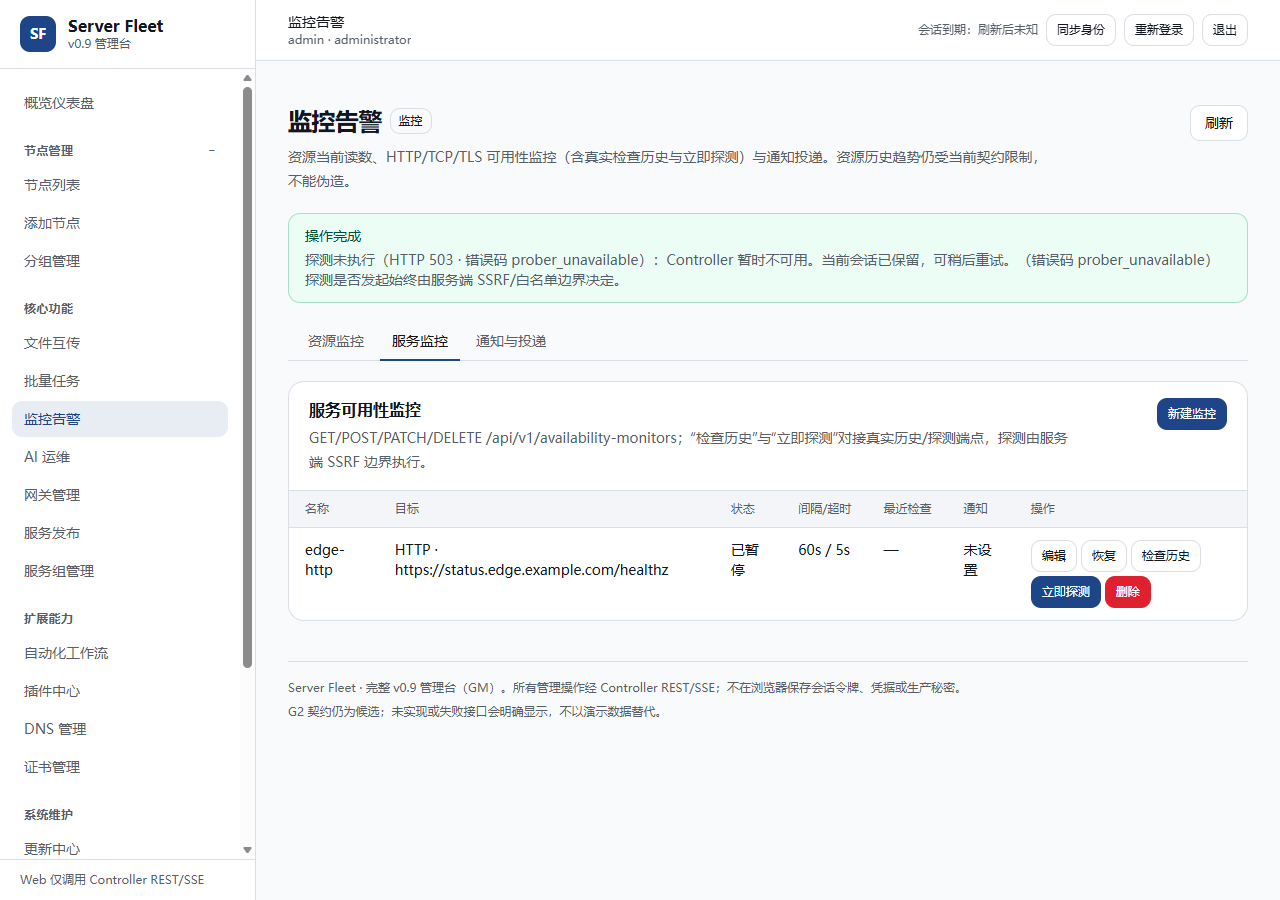
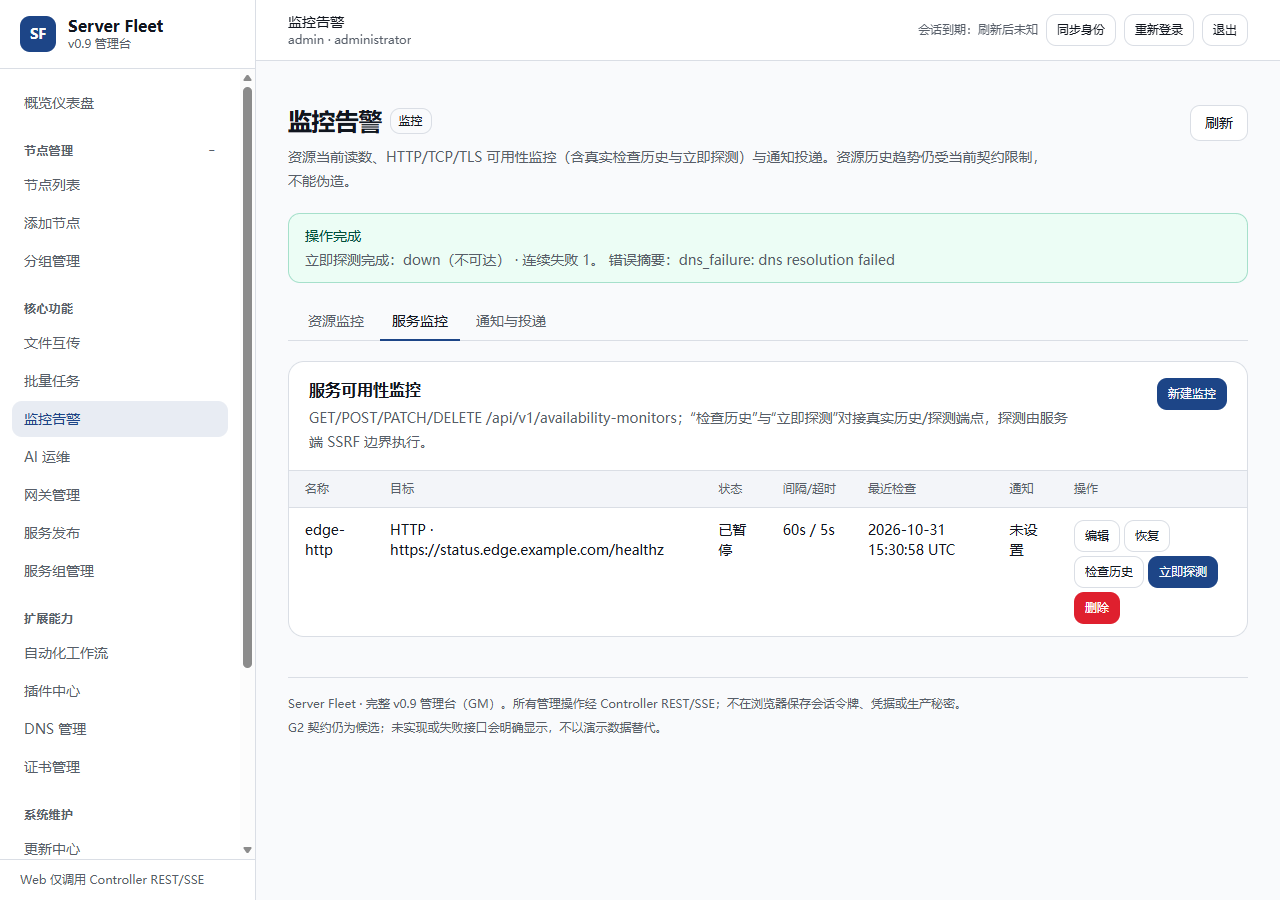
feat(controller): wire default NetProber and LocalStagingTransport for wave 5 composition

Changed region(s): [[0.2188, 0.28, 0.9688, 0.6533], [0.2188, 0.7467, 0.75, 0.84], [0.5625, 0.5289, 0.9688, 0.7156]]

diff --git a/tests/integration/v09/controller_wave2_test.go b/tests/integration/v09/controller_wave2_test.go
@@ -3,6 +3,8 @@ package v09_test
 import (
 	"bytes"
 	"context"
+	"crypto/sha256"
+	"encoding/hex"
 	"encoding/json"
 	"io"
 	"net/http"
@@ -219,6 +221,9 @@ func TestWave2ControllerEndToEndHTTPSComposition(t *testing.T) {
 			"servicegroups.write",
 			"tasks.submit",
 			"tasks.read",
+			"tasks.command",
+			"files.read",
+			"files.write",
 			"monitoring.read",
 			"monitoring.write",
 			"quota.read",
@@ -227,6 +232,8 @@ func TestWave2ControllerEndToEndHTTPSComposition(t *testing.T) {
 			"publishing.read",
 			"publishing.write",
 			"publishing.plan_create",
+			"workflows.read",
+			"workflows.write",
 		},
 	}, adminLogin.CSRF, "wave2-grant-admin-0001")
 	if resp.StatusCode != http.StatusOK {
@@ -522,7 +529,92 @@ func TestWave2ControllerEndToEndHTTPSComposition(t *testing.T) {
 		t.Fatalf("list publications = %d: %s", resp.StatusCode, data)
 	}
 
-	// 6. Verify durable audit query over HTTPS
+	// 6. Verify Wave 5 composed defaults: NetProber, LocalStagingTransport, and Workflows
+	if composed.FilesTransport == nil {
+		t.Fatal("expected default FilesTransport (LocalStagingTransport) to be wired on composed Server")
+	}
+	uploadContent := []byte("wave5-composed-local-staging-payload")
+	uploadDigest := sha256.Sum256(uploadContent)
+	resp, data = doReq(adminClient, "POST", "/api/v1/nodes/node-tokyo/files/uploads", map[string]any{
+		"destinationDir": "/srv/app",
+		"conflictPolicy": "overwrite",
+		"files": []map[string]any{
+			{
+				"name":      "release.txt",
+				"sizeBytes": len(uploadContent),
+				"sha256":    hex.EncodeToString(uploadDigest[:]),
+			},
+		},
+	}, adminLogin.CSRF, "wave5-upload-create-0001")
+	if resp.StatusCode != http.StatusCreated {
+		t.Fatalf("create upload = %d: %s", resp.StatusCode, data)
+	}
+	var createdUpload struct {
+		UploadID string `json:"uploadId"`
+	}
+	if err := json.Unmarshal(data, &createdUpload); err != nil || createdUpload.UploadID == "" {
+		t.Fatalf("decode upload: %v (%s)", err, data)
+	}
+	rawReq, err := http.NewRequest("PUT", origin+"/api/v1/nodes/node-tokyo/files/uploads/"+createdUpload.UploadID+"/content?offset=0", bytes.NewReader(uploadContent))
+	if err != nil {
+		t.Fatal(err)
+	}
+	rawReq.Header.Set("Origin", origin)
+	rawReq.Header.Set("X-Requested-With", "ServerFleetWeb")
+	rawReq.Header.Set("X-CSRF-Token", adminLogin.CSRF)
+	rawReq.Header.Set("Content-Type", "application/octet-stream")
+	rawResp, err := adminClient.Do(rawReq)
+	if err != nil {
+		t.Fatalf("PUT upload content: %v", err)
+	}
+	rawData, _ := io.ReadAll(rawResp.Body)
+	_ = rawResp.Body.Close()
+	if rawResp.StatusCode != http.StatusOK {
+		t.Fatalf("PUT upload content = %d: %s", rawResp.StatusCode, rawData)
+	}
+	resp, data = doReq(adminClient, "POST", "/api/v1/nodes/node-tokyo/files/uploads/"+createdUpload.UploadID+"/complete", map[string]any{}, adminLogin.CSRF, "wave5-upload-complete-0001")
+	if resp.StatusCode != http.StatusOK {
+		t.Fatalf("complete upload = %d: %s", resp.StatusCode, data)
+	}
+	var pulled bytes.Buffer
+	if n, err := composed.FilesTransport.PullFile(ctx, "node-tokyo", "/srv/app/release.txt", &pulled); err != nil || int(n) != len(uploadContent) || !bytes.Equal(pulled.Bytes(), uploadContent) {
+		t.Fatalf("PullFile = (%d, %v, %q), want %q", n, err, pulled.String(), string(uploadContent))
+	}
+
+	resp, data = doReq(adminClient, "POST", "/api/v1/monitoring/availability-monitors", map[string]any{
+		"name":            "wave5-http-monitor",
+		"type":            "http",
+		"target":          "https://status.edge.example.com/healthz",
+		"intervalSeconds": 60,
+		"timeoutSeconds":  2,
+	}, adminLogin.CSRF, "wave5-monitor-create-0001")
+	if resp.StatusCode != http.StatusCreated {
+		t.Fatalf("create monitor = %d: %s", resp.StatusCode, data)
+	}
+	var createdMon struct {
+		ID string `json:"id"`
+	}
+	if err := json.Unmarshal(data, &createdMon); err != nil || createdMon.ID == "" {
+		t.Fatalf("decode monitor: %v (%s)", err, data)
+	}
+	resp, data = doReq(adminClient, "POST", "/api/v1/monitoring/availability-monitors/"+createdMon.ID+"/probe", map[string]any{}, adminLogin.CSRF, "wave5-monitor-probe-0001")
+	if resp.StatusCode != http.StatusOK {
+		t.Fatalf("probe monitor = %d: %s", resp.StatusCode, data)
+	}
+	resp, data = doReq(adminClient, "GET", "/api/v1/monitoring/availability-monitors/"+createdMon.ID+"/history", nil, "", "")
+	if resp.StatusCode != http.StatusOK {
+		t.Fatalf("monitor history = %d: %s", resp.StatusCode, data)
+	}
+	var monHist struct {
+		Items []struct {
+			Status string `json:"status"`
+		} `json:"items"`
+	}
+	if err := json.Unmarshal(data, &monHist); err != nil || len(monHist.Items) != 1 {
+		t.Fatalf("expected 1 persisted monitor check sample, got %+v (%v) raw=%s", monHist, err, string(data))
+	}
+
+	// 7. Verify durable audit query over HTTPS
 	resp, data = doReq(adminClient, "GET", "/api/v1/audit/events?limit=50", nil, "", "")
 	if resp.StatusCode != http.StatusOK {
 		t.Fatalf("audit events = %d: %s", resp.StatusCode, data)

diff --git a/apps/controller/server/server.go b/apps/controller/server/server.go
@@ -90,6 +90,7 @@ type Server struct {
 	TasksRepo         *tasks.Repo
 	Tasks             *tasks.Service
 	Files             *files.Service
+	FilesTransport    *files.LocalStagingTransport
 	DNS               *dns.Service
 	Notifications     *notifications.Service
 	Gateway           *gateway.Service
@@ -611,6 +612,15 @@ func New(ctx context.Context, cfg Config) (*Server, error) {
 	}
 
 	taskBridge := &composedTaskBridge{tasks: tasksService}
+	uploads := cfg.UploadTransport
+	if uploads == nil {
+		localTransport, err := files.NewLocalStagingTransport(filepath.Join(stagingDir, "nodes"))
+		if err != nil {
+			return cleanup(err)
+		}
+		s.FilesTransport = localTransport
+		uploads = localTransport
+	}
 	filesService, err := files.NewService(files.Options{
 		DB:         db,
 		Repo:       filesRepo,
@@ -618,7 +628,7 @@ func New(ctx context.Context, cfg Config) (*Server, error) {
 		Authorizer: authorizer,
 		Submitter:  taskBridge,
 		Canceller:  taskBridge,
-		Uploads:    cfg.UploadTransport,
+		Uploads:    uploads,
 		StagingDir: stagingDir,
 		Now:        now,
 	})
@@ -665,12 +675,21 @@ func New(ctx context.Context, cfg Config) (*Server, error) {
 		return cleanup(err)
 	}
 
+	prober := cfg.MonitoringProber
+	if prober == nil {
+		prober, err = monitoring.NewNetProber(monitoring.NetProberConfig{
+			AllowedHosts: cfg.MonitoringAllowedHosts,
+		})
+		if err != nil {
+			return cleanup(err)
+		}
+	}
 	monitoringService, err := monitoring.NewService(monitoring.Options{
 		DB:           db,
 		Repo:         monitoringRepo,
 		Audit:        auditRecorder,
 		Authorizer:   authorizer,
-		Prober:       cfg.MonitoringProber,
+		Prober:       prober,
 		AllowedHosts: cfg.MonitoringAllowedHosts,
 		Now:          now,
 	})
@@ -785,7 +804,7 @@ func (s *Server) ServeHTTP(w http.ResponseWriter, r *http.Request) {
 func (s *Server) registerRoutes() error {
 	s.mux.HandleFunc("GET /healthz", func(w http.ResponseWriter, _ *http.Request) {
 		w.Header().Set("Content-Type", "application/json")
-		_ = json.NewEncoder(w).Encode(map[string]string{"status": "ok", "stage": "v0.9-wave4"})
+		_ = json.NewEncoder(w).Encode(map[string]string{"status": "ok", "stage": "v0.9-wave5"})
 	})
 
 	for _, pattern := range []string{
